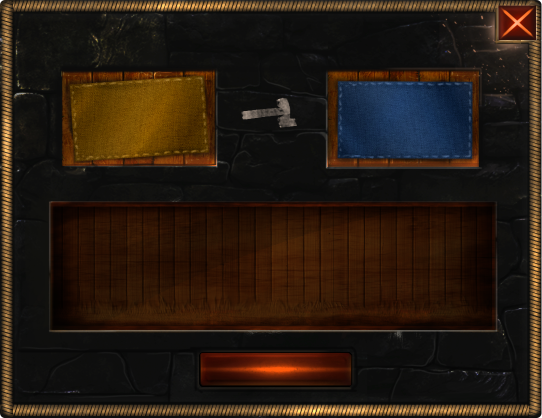
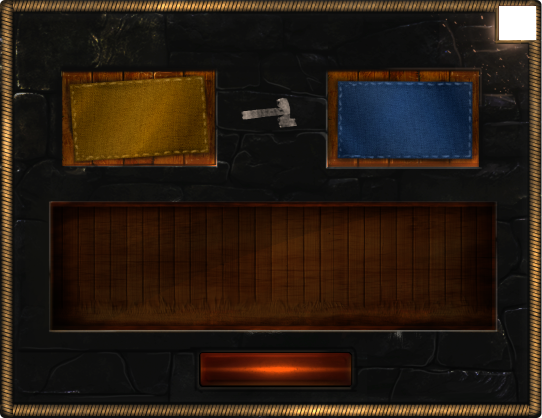
Styles adjustments

Changed region(s): [[0.9151, 0.0, 1.0, 0.0933]]

diff --git a/content/dota_addons/ziv/panorama/styles/custom_game/ingame_ui_status.css b/content/dota_addons/ziv/panorama/styles/custom_game/ingame_ui_status.css
@@ -4,16 +4,26 @@
 
 	box-shadow: #000000ff 0px 0px 10px 0px;
 
-	width: 475px;
-	height: 720px;
+	background-image: url('file://{images}/custom_game/ingame_ui/status_bg.png');
+	background-size: 100% 100%;
+
+	width: 457px;
+	height: 561px;
 
 	margin-bottom: 240px;
+}
 
+.StatusInfo {
 	flow-children: down;
 }
 
 #hires {
-	border-bottom: 1px solid #333333;
+	width: 458px;
+	height: 220px;
+
+	background-size: 100% 110%; 
+
+	box-shadow: inset #0000008C 0px 10px 81px 15px;
 
 	flow-children: down;
 }
@@ -34,8 +44,9 @@
 	color: White;
 
 	vertical-align: bottom;
-	margin: 10px;
-	margin-left: 15px;
+	/*margin: 10px;*/
+	margin-bottom: 10px;
+	margin-left: 30px;
 }
 
 .LevelAndLeague {
@@ -51,11 +62,11 @@
 	box-shadow: #00000000 0px 0px 0px 0.0;
 	background-color: transparent;
 
-	font-size: 22px;
+	font-size: 18px;
 	font-family: Goudy Trajan Medium,FZKai-Z03,TH Sarabun New,YDYGO 540;
 	color: White;
 
-	margin-top: 5px;
+	margin-top: -4px;
 
 	horizontal-align: center;
 }
@@ -118,12 +129,12 @@
 .StatusLabel {
 	text-align: left;
 
-	line-height: 22px;
+	line-height: 10px;
 
 	box-shadow: #00000000 0px 0px 0px 0.0;
 	background-color: transparent;
 
-	font-size: 20px;
+	font-size: 15px;
 	font-style: italic;
 
 	font-family: Goudy Trajan Medium,FZKai-Z03,TH Sarabun New,YDYGO 540;
@@ -139,4 +150,19 @@
 	flow-children: down;
 	margin-top: 20px;
 	padding-bottom: 25px;
+}
+
+#CloseButton {
+	margin-top: 6px;
+}
+
+#Foreground {
+	background-image: url('file://{images}/custom_game/ingame_ui/status_bg_a.png');
+	background-size: 100% 100%;
+
+	width: 100%;
+	height: 255px;
+
+/*	vertical-align: center;
+	horizontal-align: center;*/
 }

diff --git a/content/dota_addons/ziv/panorama/scripts/custom_game/crafting/item_tooltip.js b/content/dota_addons/ziv/panorama/scripts/custom_game/crafting/item_tooltip.js
@@ -102,14 +102,25 @@ function CreateModifiersPanel( tooltip, built_in_modifiers )
 
 function Tooltip( panelName )
 {
-	var tooltip = hudRoot.FindChildTraverse("DOTAAbilityTooltip").FindChildTraverse("Contents");
+	if (hudRoot && hudRoot.FindChildTraverse("DOTAAbilityTooltip")) {
+		var tooltip = hudRoot.FindChildTraverse("DOTAAbilityTooltip").FindChildTraverse("Contents");
 
-	if (tooltip.m_Item == -1) {
-		$.Schedule(0.03, Tooltip);
-		return;
+		var gemsPanel = tooltip.FindChildTraverse("GemsPanel");
+		var modifiersPanel = tooltip.FindChildTraverse("ModifiersPanel");
+		if (gemsPanel) {
+			gemsPanel.RemoveAndDeleteChildren();
+		}
+		if (modifiersPanel) {
+			modifiersPanel.RemoveAndDeleteChildren();
+		}
+
+		if (tooltip.m_Item == -1) {
+			$.Schedule(0.03, Tooltip);
+			return;
+		}
+
+		GameEvents.SendCustomGameEventToServer( "ziv_item_tooltip_get_modifiers", { "pID" : Players.GetLocalPlayer(), "item" : tooltip.m_Item } );
 	}
-
-	GameEvents.SendCustomGameEventToServer( "ziv_item_tooltip_get_modifiers", { "pID" : Players.GetLocalPlayer(), "item" : tooltip.m_Item } );
 }
 
 function ShowActualTooltip(keys) {

diff --git a/content/dota_addons/ziv/panorama/scripts/custom_game/containers/draggable.js b/content/dota_addons/ziv/panorama/scripts/custom_game/containers/draggable.js
@@ -1,0 +1,40 @@
+function OnDragStart( panelId, dragCallbacks )
+{
+  var panel = $('#' + panelId);
+  
+  panel.style.verticalAlign = "top;";
+  panel.style.horizontalAlign = "left;";
+
+  dragCallbacks.displayPanel = panel;//panel;
+
+  var cursor = GameUI.GetCursorPosition();
+
+  dragCallbacks.offsetX = cursor[0] - panel.actualxoffset;//250;
+  dragCallbacks.offsetY = cursor[1] - panel.actualyoffset;//20;
+  dragCallbacks.removePositionBeforeDrop = false;
+  return false;
+} 
+
+function OnDragEnd( panelId, draggedPanel )
+{
+  return false; 
+} 
+
+function NullDragStart( panelId, dragCallbacks)
+{
+  return true;
+}
+
+function NullDragEnd( panelId, draggedPanel)
+{
+  return true;
+}
+
+(function(){
+  var panel = $.GetContextPanel();
+
+  $.RegisterEventHandler( 'DragStart', panel, OnDragStart );
+  $.RegisterEventHandler( 'DragEnd', panel, OnDragEnd );
+
+
+})()

diff --git a/content/dota_addons/ziv/panorama/scripts/custom_game/ingame_ui_status.js b/content/dota_addons/ziv/panorama/scripts/custom_game/ingame_ui_status.js
@@ -16,7 +16,8 @@ function roundToTwo(num) {
 
 	var status = CustomNetTables.GetTableValue( "hero_status", Players.GetLocalPlayer());
 
-	$("#hires").SetImage("file://{images}/custom_game/heroes/" + name + "_ziv.jpg");
+	// $("#hires").SetImage("file://{images}/custom_game/heroes/" + name + "_ziv.jpg");
+	$("#hires").style.backgroundImage = "url(\"s2r://panorama/images/custom_game/heroes/" + name + "_ziv_jpg.vtex\");";
 	$("#HeroNameLabel").html = true;
 	$("#HeroNameLabel").text = $.Localize(name) + "<br>" + "<span class=\"LevelAndLeague\">" + "    Level " + Entities.GetLevel(queryUnit) + " | " + "Softcore" + "</span>";
 

diff --git a/content/dota_addons/ziv/panorama/styles/custom_game/ingame_ui_windows.css b/content/dota_addons/ziv/panorama/styles/custom_game/ingame_ui_windows.css
@@ -55,10 +55,13 @@
 }
 
 .CloseButton {
-	width: 40px;
-	height: 42px;
+	width: 39px;
+	height: 41px;
 
-	border-radius: 4px;
+	margin: 5px;
+	margin-top: 6px;
+
+	border-radius: 1px;
 
 /*	border-left-color: #55441166;
 	border-left-style: solid;
@@ -66,8 +69,8 @@
 
 	background-color: #b53f51;
 
-	background-image: url("s2r://panorama/images/control_icons/x_close_png.vtex");
-	background-size: 24px 24px;
+	background-image: url('file://{images}/custom_game/ingame_ui/ui_close_button.png');
+	background-size: 100% 100%;
 	background-repeat: no-repeat;
 	background-position: 50% 50%;
 

diff --git a/content/dota_addons/ziv/panorama/styles/custom_game/ingame_ui.css b/content/dota_addons/ziv/panorama/styles/custom_game/ingame_ui.css
@@ -115,7 +115,7 @@
 	/*opacity: 0.99;*/
 	vertical-align: bottom;
 	margin-bottom: 36px;
-	margin-left: 2px;
+	margin-left: 3px;
 	
     width: 69px;
     height: 141px;
@@ -210,6 +210,8 @@
 
 	width: 567px;
 	height: 340px;
+
+	background-size: 100% 100%;
 
 	margin-bottom: -1px;
 

diff --git a/content/dota_addons/ziv/panorama/scripts/custom_game/ingame_ui_fortify.js b/content/dota_addons/ziv/panorama/scripts/custom_game/ingame_ui_fortify.js
@@ -35,7 +35,7 @@ function OnDragDrop(panelId, draggedPanel) {
 
 		$("#FortifyTool").style.visibility = "visible;";
 
-		Game.EmitSound( "Item.PickUpGemShop" )
+		Game.EmitSound( "Item.PickUpGemShop" );
 	}
 
 	CheckOKButton()
